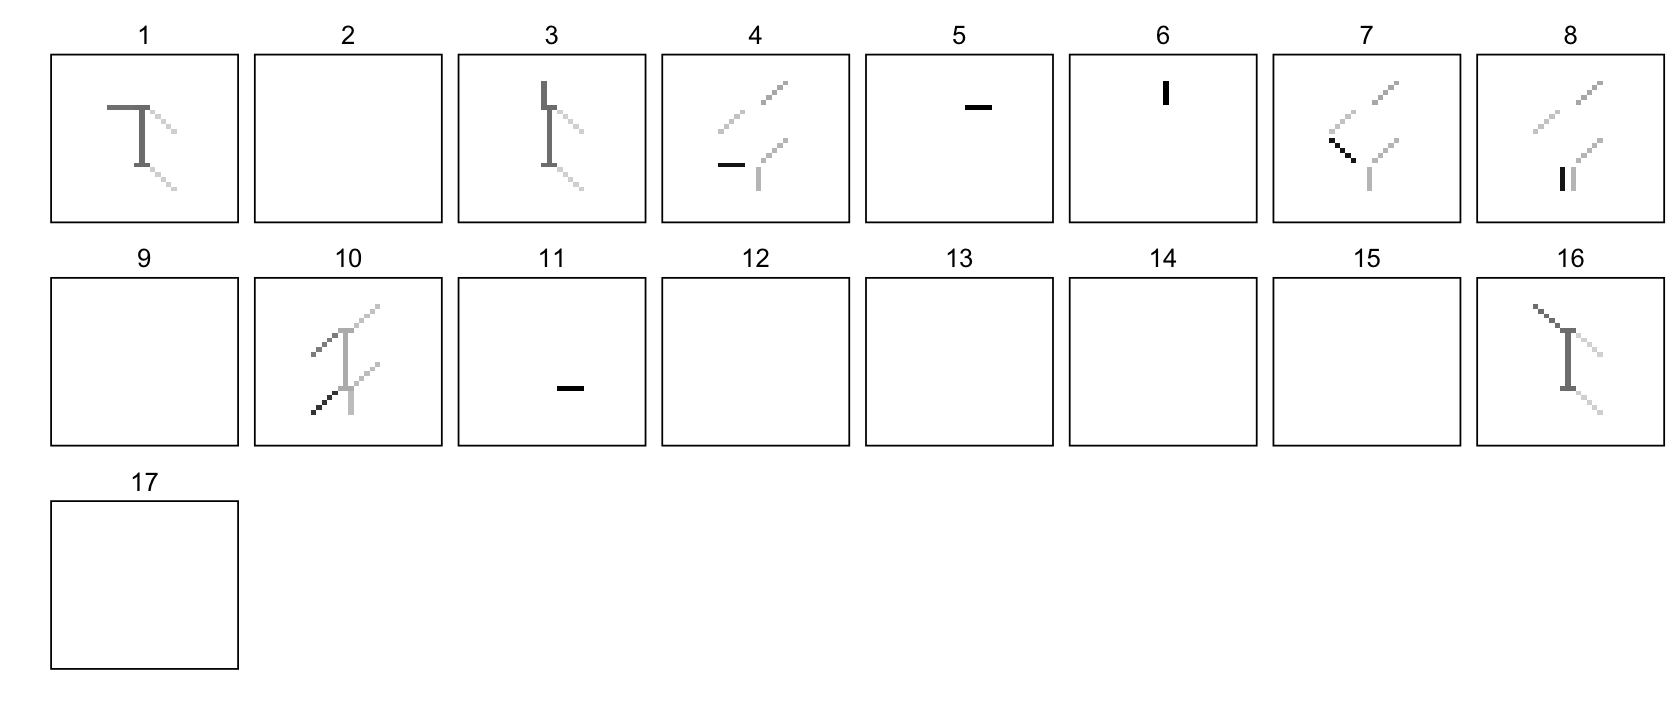
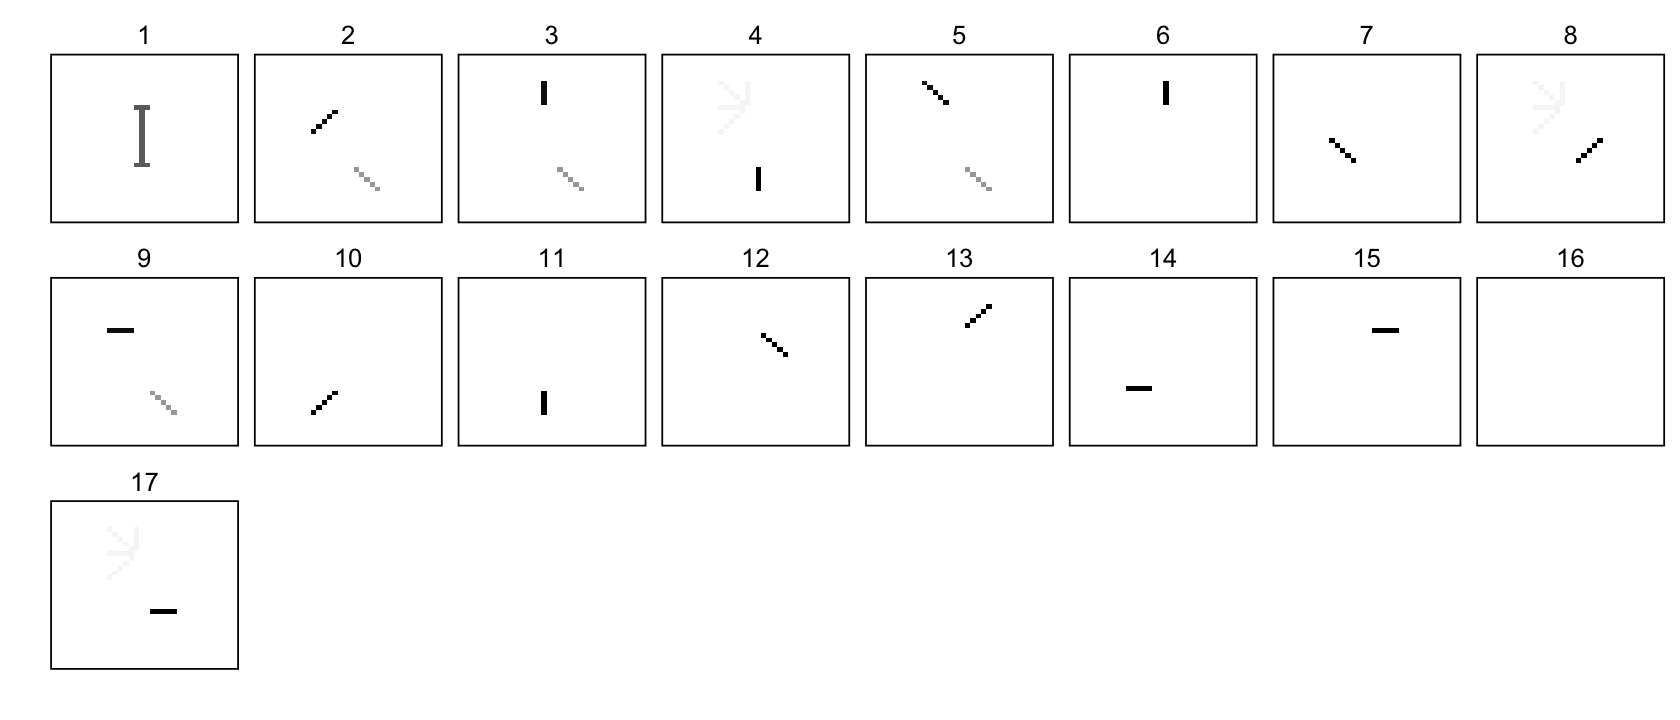
Fixed the last flashier analysis in swimmer_more.Rmd.

diff --git a/docs/swimmer_more.html b/docs/swimmer_more.html
@@ -432,15 +432,15 @@ project makes it easier to run your code on other machines.</p>
 <div class="panel panel-default">
 <div class="panel-heading">
 <p class="panel-title">
-<a data-toggle="collapse" data-parent="#workflowr-checks" href="#strongRepositoryversionstrongahrefhttpsgithubcomwillwerscheidebnmfpapertree2404d81d943667057cbc59d73a11fb897222848atargetblank2404d81a">
+<a data-toggle="collapse" data-parent="#workflowr-checks" href="#strongRepositoryversionstrongahrefhttpsgithubcomwillwerscheidebnmfpapertreeb8f6cbbddf88c87e79401e8889facb0ae8b2e6e3targetblankb8f6cbba">
 <span class="glyphicon glyphicon-ok text-success"
 aria-hidden="true"></span> <strong>Repository version:</strong>
-<a href="https://github.com/willwerscheid/ebnmf-paper/tree/2404d81d943667057cbc59d73a11fb897222848a" target="_blank">2404d81</a>
+<a href="https://github.com/willwerscheid/ebnmf-paper/tree/b8f6cbbddf88c87e79401e8889facb0ae8b2e6e3" target="_blank">b8f6cbb</a>
 </a>
 </p>
 </div>
 <div
[2 lines of base64/hex data omitted]
 class="panel-collapse collapse">
 <div class="panel-body">
 <p>
@@ -450,7 +450,7 @@ reproducibility.
 </p>
 <p>
 The results in this page were generated with repository version
-<a href="https://github.com/willwerscheid/ebnmf-paper/tree/2404d81d943667057cbc59d73a11fb897222848a" target="_blank">2404d81</a>.
+<a href="https://github.com/willwerscheid/ebnmf-paper/tree/b8f6cbbddf88c87e79401e8889facb0ae8b2e6e3" target="_blank">b8f6cbb</a>.
 See the <em>Past versions</em> tab to see a history of the changes made
 to the R Markdown and HTML files.
 </p>
@@ -509,6 +509,40 @@ Message
 </tr>
 </thead>
 <tbody>
+<tr>
+<td>
+Rmd
+</td>
+<td>
+<a href="https://github.com/willwerscheid/ebnmf-paper/blob/b8f6cbbddf88c87e79401e8889facb0ae8b2e6e3/analysis/swimmer_more.Rmd" target="_blank">b8f6cbb</a>
+</td>
+<td>
+Peter Carbonetto
+</td>
+<td>
+2024-01-02
+</td>
+<td>
+workflowr::wflow_publish("analysis/swimmer_more.Rmd", verbose = TRUE)
+</td>
+</tr>
+<tr>
+<td>
+html
+</td>
+<td>
+<a href="https://rawcdn.githack.com/willwerscheid/ebnmf-paper/e42e804e4239dbd339a1bff8a6ea64bae812ea39/docs/swimmer_more.html" target="_blank">e42e804</a>
+</td>
+<td>
+Peter Carbonetto
+</td>
+<td>
+2024-01-02
+</td>
+<td>
+Build site.
+</td>
+</tr>
 <tr>
 <td>
 Rmd
@@ -1068,14 +1102,13 @@ Peter Carbonetto
 and NMF were initialized in the same way. (And the greedy initialization
 is particularly well suited for the swimmer data set because it
 identifies the torso as the first factor.)</p>
-<p>Let’s see if we can improve the factorization further by adapting the
-priors. Unfortunately, random initialization with an adaptive prior does
-not work well at all, and I’m not sure why:</p>
-<pre class="r"><code>set.seed(1)
+<p>Let’s see if we can improve the decomposition further by adapting the
+priors:</p>
+<pre class="r"><code>L0 &lt;- ldf(fit2)$L
+F0 &lt;- ldf(fit2)$F
 fit3 &lt;- flash_init(Y,var_type = 0)
 fit3 &lt;- flash_factors_init(fit3,
-                           list(matrix(runif(n*k),n,k),
-                                matrix(runif(m*k),m,k)),
+                           list(L0,F0),
                            ebnm_point_exponential)
 fit3 &lt;- flash_backfit(fit3)
 plot_images(ldf(fit3)$L,nrow = 3,ncol = 8)</code></pre>
@@ -1118,15 +1151,8 @@ Peter Carbonetto
 </div>
 </div>
 <pre><code># Backfitting 17 factors (tolerance: 3.91e-03)...
-#   --Estimate of factor 2 is numerically zero!
-#   --Estimate of factor 12 is numerically zero!
-#   --Estimate of factor 13 is numerically zero!
-#   --Estimate of factor 14 is numerically zero!
-#   --Estimate of factor 15 is numerically zero!
-#   --Estimate of factor 9 is numerically zero!
-#   --Estimate of factor 17 is numerically zero!
-#   --Estimate of factor 9 is numerically zero!
-#   --Estimate of factor 17 is numerically zero!
+#   --Estimate of factor 16 is numerically zero!
+#   Difference between iterations is within 1.0e+05...
 #   Difference between iterations is within 1.0e+04...
 #   Difference between iterations is within 1.0e+03...
 #   Difference between iterations is within 1.0e+02...
@@ -1134,9 +1160,10 @@ Peter Carbonetto
 #   Difference between iterations is within 1.0e+00...
 #   Difference between iterations is within 1.0e-01...
 #   Difference between iterations is within 1.0e-02...
-#   Difference between iterations is within 1.0e-03...
 # Wrapping up...
 # Done.</code></pre>
+<p>This improved the decomposition slightly by “cleaning up” the messy
+factor, factor 16.</p>
 <br>
 <p>
 <button type="button" class="btn btn-default btn-workflowr btn-workflowr-sessioninfo" data-toggle="collapse" data-target="#workflowr-sessioninfo" style="display: block;">
